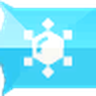
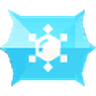
@ fix: テラスタイプアイコンの尖ったフレームを左右対称にする
尖った縁の幅(taper_width)の算出が誤っており、右端の縁が膨らみの途中で
断ち切られて繋ぎ目に段差が出ていた(右上・右下に角が飛び出して見える)。

旧実装は「縦に隙間なく埋まっていて胴体と同じくらい背が高い列」を胴体の
始まりとみなしていたが、テラスの縁には胴体より背が高く膨らんでいる区間が
ある(タイプ1: 胴体はy=4〜43の40pxに対し、縁の膨らみx=8〜12はy=2〜46の46px)。
この膨らみを胴体と誤判定し、縁の幅を13pxではなく8pxと算出していた。

detect_frame_taper() を新設し、列ごとの不透明範囲(min_y, max_y)の最頻値から
胴体の上下位置を求める方式に変更。リボンは全幅200pxのうち170px以上を胴体が
占めるため確実に判定できる。アイコンが幅広く縁と隣接するステラ(x0=12)で
基準列自体が縁の一部になり破綻していた問題も併せて解消。

切り出し位置も cut = x0 + x1 - taper_width に整理し、出力幅の中心が
アイコンの中心と必ず一致する(=左右の余白が等しくなる)ようにした。

実測: 全19タイプで左右の縁の幅が完全一致(通常18タイプ13px、ステラ12px)。
出力を左右反転した差分は0.76〜0.95%で、内訳は元画像が持つ斜め辺の1px
アンチエイリアス差のみ。縁の位置合わせを±2pxずらした誤差測定でもズレ0が最小。
通常タイプの画像はバイト単位で不変。

@

diff --git a/scripts/type-icons/generate_type_icons.py b/scripts/type-icons/generate_type_icons.py
@@ -26,13 +26,19 @@ https://raw.githubusercontent.com/PokeAPI/sprites/master/sprites/types/generatio
     分かれている等、数px程度)は同一クラスタとして許容してつなげつつ、
     アイコンと英字の間の隙間(実測で常に12px以上)に達したら打ち切ることで
     「アイコンだけ」の水平範囲を検出する。
-  - 切り出しは「画像の高さ」を一辺とする正方形を、検出した中心に合わせて
-    水平方向だけスライドさせる(縦方向は画像そのままの範囲=中央基準)。
-    通常タイプ・テラスタイプいずれも、背景の縁取り形状
-    (通常タイプ: 角丸ピル / テラスタイプ: 宝石型のジグザグ縁)は、
-    アイコン中心を基準にした「画像高さ×画像高さ」の正方形の内接円の中に
-    収まる限り、透明・欠けが生じないことを実測で確認済み(角の透明領域は
-    表示側の border-radius: 50% でどのみち切り落とされる部分にしか出ない)。
+  - 通常タイプ(角丸ピル)は、「画像の高さ」を一辺とする正方形を検出した中心に
+    合わせて水平方向だけスライドさせて切り出す(縦方向は画像そのままの範囲=中央
+    基準)。背景の縁(角丸ピル)はアイコン中心基準の正方形の内接円の中に収まる限り
+    透明・欠けが生じないことを実測で確認済み(角の透明領域は表示側の
+    border-radius: 50% でどのみち切り落とされる部分にしか出ない)。
+  - テラスタイプ(宝石型のジグザグ縁)は上記の中心クロップ方式ではなく、
+    stitch_tera_icon() で英字部分だけを削除して残りを繋ぎ合わせる方式にする
+    (2026-07-29 ユーザー提案)。テラスタイプの縁は左端(3本トゲ)と右端がほぼ
+    完全な鏡像であることを実測で確認済みのため、単純に中心で正方形に切り出すと
+    右端の本物の尖った縁を取りこぼして非対称に見えてしまう。以前試した「切り出し後の
+    正方形を合成(ミラーコピー/アルファのテーパー)で対称化する」案は、原画にない
+    段差や非対称アイコンの絵柄破損を引き起こしたため不採用にした。詳細は
+    stitch_tera_icon() のdocstring参照。
 
 ## 使い方
     python scripts/type-icons/generate_type_icons.py
@@ -51,6 +57,7 @@ import io
 import sys
 import urllib.error
 import urllib.request
+from collections import Counter
 from pathlib import Path
 
 try:
@@ -150,7 +157,9 @@ def detect_icon_x_range(im: Image.Image) -> tuple[int, int]:
 
 
 def crop_icon_square(im: Image.Image) -> Image.Image:
-    """アイコン中心に合わせて「画像高さ×画像高さ」の正方形を切り出し、OUTPUT_SIZE にリサイズする。"""
+    """アイコン中心に合わせて「画像高さ×画像高さ」の正方形を切り出し、OUTPUT_SIZE にリサイズする。
+    通常タイプ用(角丸ピル。両端に尖った縁がないため単純な中心クロップで問題ない)。
+    """
     w, h = im.size
     x0, x1 = detect_icon_x_range(im)
     cx = (x0 + x1) / 2
@@ -165,10 +174,102 @@ def crop_icon_square(im: Image.Image) -> Image.Image:
     return cropped.resize((OUTPUT_SIZE, OUTPUT_SIZE), Image.LANCZOS), box
 
 
+def _column_alpha_span(im: Image.Image, x: int) -> tuple[int, int] | None:
+    """列xで不透明(アルファ>ALPHA_MIN)なピクセルの (最小y, 最大y)。全透明なら None。"""
+    h = im.size[1]
+    px = im.load()
+    ys = [y for y in range(h) if px[x, y][3] > ALPHA_MIN]
+    return (ys[0], ys[-1]) if ys else None
+
+
+def detect_frame_taper(im: Image.Image) -> tuple[tuple[int, int], int]:
+    """テラスタイプのリボンの「胴体(プラトー)の上下位置」と「両端の尖った縁の幅」を返す。
+
+    テラスのリボンは [左の尖った縁] + [上下が平らな胴体] + [右の尖った縁] という構造で、
+    胴体は全幅200pxのうち170px以上を占める。そのため列ごとの不透明範囲 (min_y, max_y) の
+    最頻値をとれば胴体の上下位置(プラトー)が確実に求まる。プラトーと完全一致する列の
+    最初/最後の位置が、そのまま左右の尖った縁の幅になる。
+
+    最頻値方式にしている理由(2026-07-29 実測):
+      - 「アイコン開始位置の1つ左の列」を胴体の基準にする方式は、アイコンが他タイプより
+        幅広く縁のすぐ隣から始まるステラ(x0=12)で基準列自体が縁の一部になり破綻する。
+      - 「縦に隙間なく埋まっていて十分高い列」を縁の終わりとみなす方式は、縁が胴体より
+        背が高く膨らんでいる区間(タイプ1なら x=8〜12 が上下46px、胴体は40px)を
+        胴体と誤判定し、縁の幅を13pxではなく8pxと算出してしまう。この5px不足により
+        右側の縁が膨らみの途中で断ち切られ、繋ぎ目で上下に段差が出ていた
+        (=右上・右下に角が飛び出して見える不具合)。
+    実測では全19タイプで左右の縁の幅が完全に一致する(通常18タイプは13px、ステラは12px)
+    ため、両端は正確な鏡像であり、右端の実ピクセルをそのまま使えば左右対称になる。
+    """
+    w = im.size[0]
+    spans = [_column_alpha_span(im, x) for x in range(w)]
+    plateau = Counter(s for s in spans if s is not None).most_common(1)[0][0]
+    left_width = next(x for x in range(w) if spans[x] == plateau)
+    right_width = w - 1 - max(x for x in range(w) if spans[x] == plateau)
+    # 実測では常に一致するが、万一ずれても縁を切り落とさないよう広い方を採る。
+    return plateau, max(left_width, right_width)
+
+
+def stitch_tera_icon(im: Image.Image, icon_x_range: tuple[int, int]) -> Image.Image:
+    """テラスタイプ用: 英字部分だけを削除し、アイコンを挟む左右の残り(左端の本物の
+    尖った縁 + アイコン + 右端の本物の尖った縁)をそのまま繋ぎ合わせる。
+
+    2026-07-29 ユーザー提案: 「元画像から英語タイプ表記の部分だけ削除して、残りを
+    つなぎ合わせるだけで所望の画像になるはず」。実測(2026-07-29)で確認したところ、
+    テラスタイプの横長リボン画像は左端の尖った縁(3本トゲ)と右端の尖った縁が
+    ほぼ完全な鏡像になっている(縦の不透明範囲を1px単位で比較して確認済み)。
+    そのため合成(ミラーコピーやアルファのテーパー)は一切不要で、右端の本物の
+    ピクセルをそのまま使えば自然に左右対称になる。
+    以前試した「アイコン中心基準で正方形に切り出す」「その正方形の縁を合成で
+    対称化する」という3案(mirror_symmetrize_frame/taper_symmetrize_corners、
+    いずれもこの関数に置き換える形で不採用にした)は、右端が縁の途中でカットされる
+    問題や、合成による段差・非対称アイコンの破損を引き起こしていた。
+
+    手順:
+      1. detect_frame_taper() で尖った縁の幅(tw)を求める。
+      2. 英字を切り捨てる位置 cut = x0 + x1 - tw を求める。こうすると出力幅が
+         (cut + tw) = (x0 + x1) となり、その中心 (x0 + x1) / 2 がアイコンの中心と
+         一致する ⇒ アイコンの左右に残る地の余白が必ず等しくなる。
+      3. 元画像の [0, cut) (真の左端の縁+アイコン+右余白) と [w-tw, w) (真の右端の
+         縁そのもの)を横に繋ぎ合わせる。英字と、英字と縁の間の余分な地の部分は
+         丸ごと削除される。
+    繋ぎ目は「胴体の最後の列」と「右の縁が広がり始める最初の列」が隣り合うだけなので、
+    左端で胴体から縁へ移るときと同じ並びになり、原画にない段差は生じない。
+    結果は (x0 + x1) x 元画像高さ の横長になる。呼び出し側で正方形へ整形する。
+    """
+    w, h = im.size
+    x0, x1 = icon_x_range
+    _plateau, taper_width = detect_frame_taper(im)
+    cut = x0 + x1 - taper_width
+
+    left_piece = im.crop((0, 0, cut, h))
+    right_piece = im.crop((w - taper_width, 0, w, h))
+
+    assembled = Image.new("RGBA", (cut + taper_width, h), (0, 0, 0, 0))
+    assembled.paste(left_piece, (0, 0))
+    assembled.paste(right_piece, (cut, 0))
+    return assembled
+
+
+def pad_to_square(im: Image.Image) -> Image.Image:
+    """縦横比が横長の画像を、透明ピクセルで上下に足して正方形にする(内容は縮小しない)。"""
+    w, h = im.size
+    side = max(w, h)
+    result = Image.new("RGBA", (side, side), (0, 0, 0, 0))
+    result.paste(im, ((side - w) // 2, (side - h) // 2))
+    return result
+
+
 def generate_one(type_id: int, *, tera: bool) -> tuple[Path, tuple[int, int, int, int]]:
     url = f"{SPRITES_BASE}/Tera/{type_id}.png" if tera else f"{SPRITES_BASE}/{type_id}.png"
     im = fetch_image(url)
-    result, box = crop_icon_square(im)
+    if tera:
+        icon_x_range = detect_icon_x_range(im)
+        stitched = stitch_tera_icon(im, icon_x_range)
+        box = (0, 0, stitched.width, stitched.height)
+        result = pad_to_square(stitched).resize((OUTPUT_SIZE, OUTPUT_SIZE), Image.LANCZOS)
+    else:
+        result, box = crop_icon_square(im)
 
     out_dir = TERA_OUT_DIR if tera else OUT_DIR
     out_dir.mkdir(parents=True, exist_ok=True)
